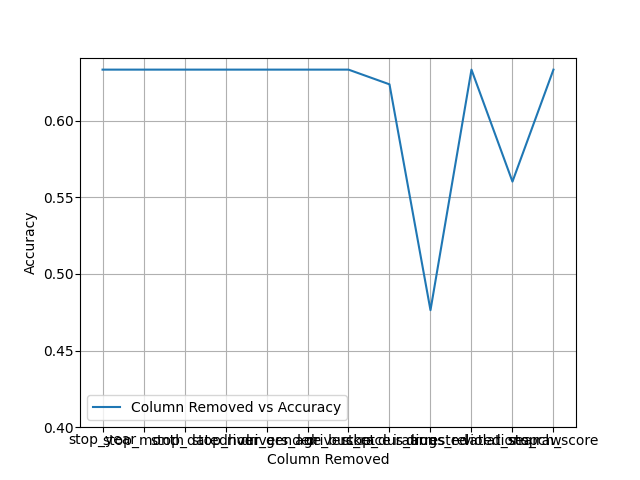
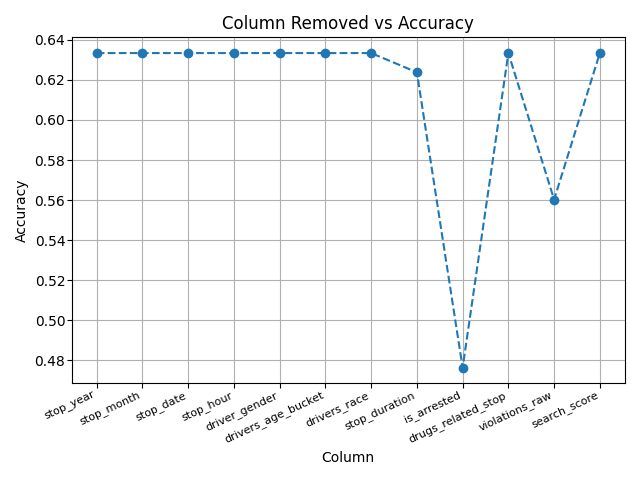
Change in Visualization Methods for Decision Tree

diff --git a/project.py b/project.py
@@ -705,18 +705,18 @@ def decision_tree_visualizaton(decision_tree_results, type):
     plt.close()
     
     # Visualization based on removing individual columns and their respective accuracy 
-    plt.plot(decision_tree_results["list_column_removed"], decision_tree_results["list_accuracy_when_column_removed"], label='Column Removed vs Accuracy')
-
-    plt.xlabel('Column Removed')  # Label x-axis
-    plt.ylabel('Accuracy')  # Label y-axis
-    plt.grid(True)
-    plt.legend()  # Show plot labels as legend
-    if type=="without_resampling":
-        ymin=0.8
-    else:
-        ymin=0.4    
-    plt.ylim(ymin=ymin)
-    plt.savefig('analysis_visualization/decision_tree_column_{}.png'.format(type))  # Save graph
+    # plt.plot(decision_tree_results["list_column_removed"], decision_tree_results["list_accuracy_when_column_removed"], label='Column Removed vs Accuracy')
+    plot_line_chart(decision_tree_results["list_column_removed"], decision_tree_results["list_accuracy_when_column_removed"], "Column", "Accuracy", "Column Removed vs Accuracy", "analysis_visualization/decision_tree_column_{}.png".format(type))   
+    #  plt.xlabel('Column Removed')  # Label x-axis
+    # plt.ylabel('Accuracy')  # Label y-axis
+    # plt.grid(True)
+    # plt.legend()  # Show plot labels as legend
+    # if type=="without_resampling":
+    #     ymin=0.8
+    # else:
+    #     ymin=0.4    
+    # plt.ylim(ymin=ymin)
+    # plt.savefig('analysis_visualization/decision_tree_column_{}.png'.format(type))  # Save graph
 
     plt.close()
 
